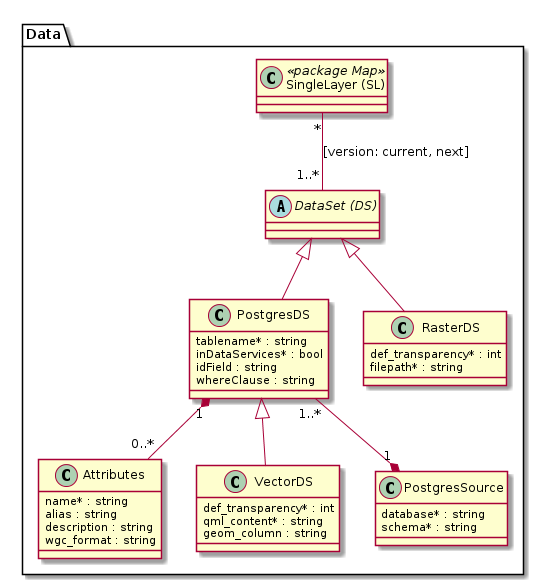
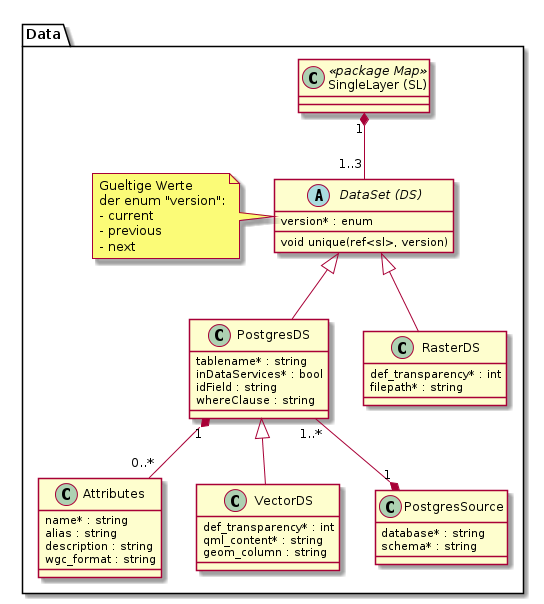
Changed relation sl - ds to 1:n

Changed region(s): [[0.0625, 0.2462, 0.9375, 0.9846], [0.0312, 0.0308, 0.9688, 0.2462]]

diff --git a/modelle.md b/modelle.md
@@ -56,6 +56,16 @@ Stellt die Klassen des Datenkonfigurationsteils dar
 * Tabellarische Daten aus Postgres/PostGIS mit und ohne Geometrie
 * Rasterdaten aus einem File / einem Katalog
 
+### DataSet
+
+Pro SingleLayer können maximal drei DataSet-Objekte mit jeweils anderer Versions-Enum vorkommen:
+* Enum "current": Das aktuell "scharfe" DataSet für den Singlelayer. Beispiel für identifier: ch.so.agi.gemeindegrenze
+* Enum "next": Das kommende DataSet für den Singlelayer. Beispiel für identifier: ch.so.agi.gemeindegrenze.next
+* Enum "previous": Das vorherige DataSet für den Singlelayer. Beispiel für identifier: ch.so.agi.gemeindegrenze.previous
+
+Mittels Unique-Key wird sichergestellt, dass für einen SingleLayer eine DataSet in beispielsweise der Version "next"
+maximal einmal vorkommt.
+
 ## Fragen - Todos
 
 * Wie die meist zutreffende Komposition Layergruppe - DS abbilden? Bei Komposition können viele Informationen von "Mammi" vererbt werden, ohne dass diese nochmals erfasst werden müssen.
